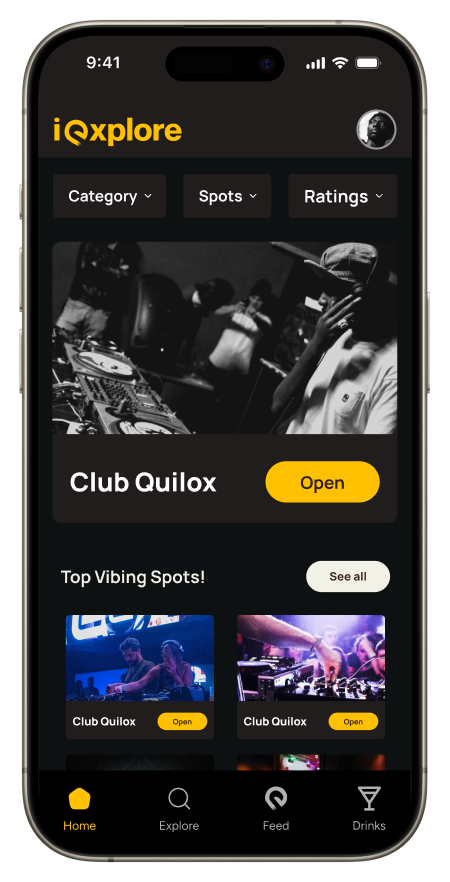
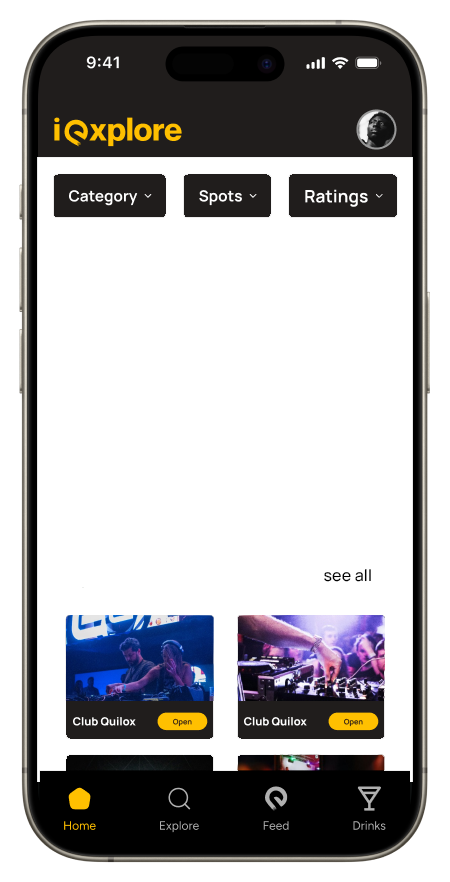
feat: waiting list desktop page update

diff --git a/src/components/MainPage/Waitlist/SpotsOnPhoneSection.tsx b/src/components/MainPage/Waitlist/SpotsOnPhoneSection.tsx
@@ -9,9 +9,7 @@ import {
   CarouselContent,
   CarouselItem,
 } from "@/components/UI/carousel";
-
-import PhoneCard from "@/assets/img/MainWebsite/PhoneCard.png";
-import Phone from "@/assets/img/MainWebsite/Phone2.png";
+import Phone from "@/assets/img/MainWebsite/Phone.png";
 import SpotPhoneCard from "./SpotPhoneCard";
 
 const SpotsOnPhoneSection = () => {
@@ -25,15 +23,10 @@ const SpotsOnPhoneSection = () => {
         loop: true,
       }}
     >
-      {/* <Image
-          src={PhoneCard}
-          alt="PhoneCard"
-          className="w-[63vw] max-w-[300px] h-auto mx-auto"
-        /> */}
       <Image
         src={Phone}
         alt="Phone"
-        className="absolute top-[70%] left-1/2 w-[80vw] max-w-[370px] transform -translate-x-1/2 -translate-y-1/2"
+        className="absolute top-[70%] left-1/2 w-[80vw] max-w-[370px] transform -translate-x-1/2 -translate-y-1/2 z-40"
       />
 
       <CarouselContent className="relative -ml-1">

diff --git a/src/app/layout.tsx b/src/app/layout.tsx
@@ -1,10 +1,11 @@
 import type { Metadata } from "next";
-import { manrope } from './fonts'
+import { manrope } from "./fonts";
 import "./globals.css";
 
 import { ToastContainer } from "react-toastify";
 
 import MainDesktopAndMobileNav from "@/components/MainPage/Navbars/MainWebsiteNavbar/MainDesktopAndMobileNav";
+import Footer from "@/components/MainPage/Footer/Footer";
 
 export const metadata: Metadata = {
   title: "iExplore",
@@ -22,9 +23,10 @@ export default function RootLayout({
         <link rel="icon" href="/icon.svg" />
       </head>
       <body>
-      <MainDesktopAndMobileNav />
+        <MainDesktopAndMobileNav />
         {children}
         <ToastContainer />
+        <Footer />
       </body>
     </html>
   );

diff --git a/src/app/page.tsx b/src/app/page.tsx
@@ -3,11 +3,10 @@ import AboutSection from "@/components/MainPage/Waitlist/AboutSection";
 import HeroSection from "@/components/MainPage/Waitlist/HeroSection";
 import JoinWaitlistSection from "@/components/MainPage/Waitlist/JoinWaitlistSection";
 import SpotsOnPhoneSection from "@/components/MainPage/Waitlist/SpotsOnPhoneSection";
-import { CarouselSpacing } from "@/components/MainPage/Waitlist/Test";
 
 const page = async () => {
   return (
-    <section className="bg-[#201D1C] pt-24">
+    <section className="bg-[#0E0E0E] pt-24">
       <HeroSection />
       <SpotsOnPhoneSection />
       <AboutSection />

diff --git a/src/components/MainPage/Navbars/MainWebsiteNavbar/MainWebsiteDesktopNav.tsx b/src/components/MainPage/Navbars/MainWebsiteNavbar/MainWebsiteDesktopNav.tsx
@@ -50,7 +50,7 @@ const MainWebsiteDesktopNav = () => {
       <nav className="flex items-center gap-7">
         <Link
           href="/user"
-          className="bg-[#F2F1E8] text-[#322016] px-4 py-2 rounded-xl font-bold"
+          className="bg-[#F2F1E8] text-[#322016] px-6 py-2 rounded-3xl font-bold"
         >
           Get Started
         </Link>

diff --git a/src/app/globals.css b/src/app/globals.css
@@ -4,10 +4,10 @@
 
 @layer base {
   :root {
-    --background: 0 0% 0%;
+    --background: 0 0% 5%;
     --foreground: 0 0% 100%;
 
-    --brand-dark: 0 0% 0%;
+    --brand-dark: 0 0% 5%;
     --brand-dark-neutral: 0 0% 5%;
     --brand-gold: 45 100% 50%;
 
